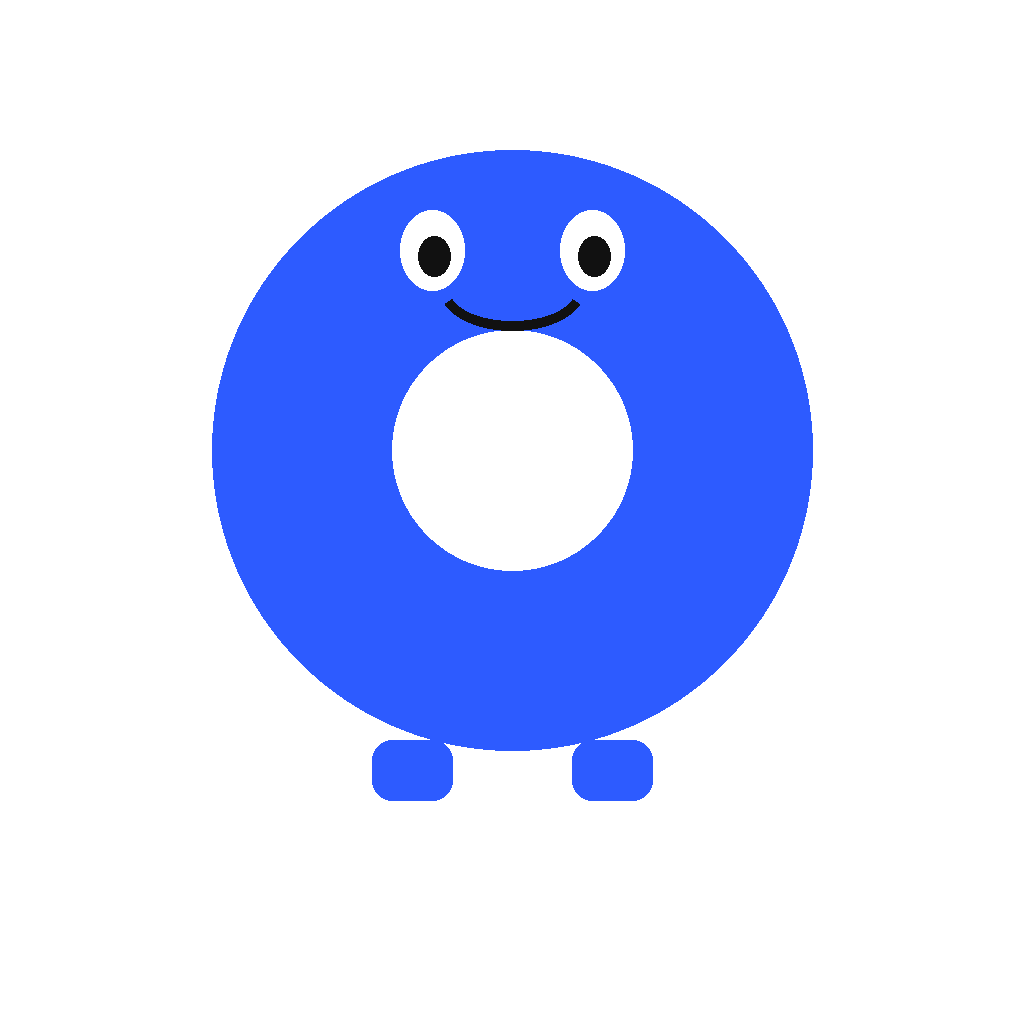
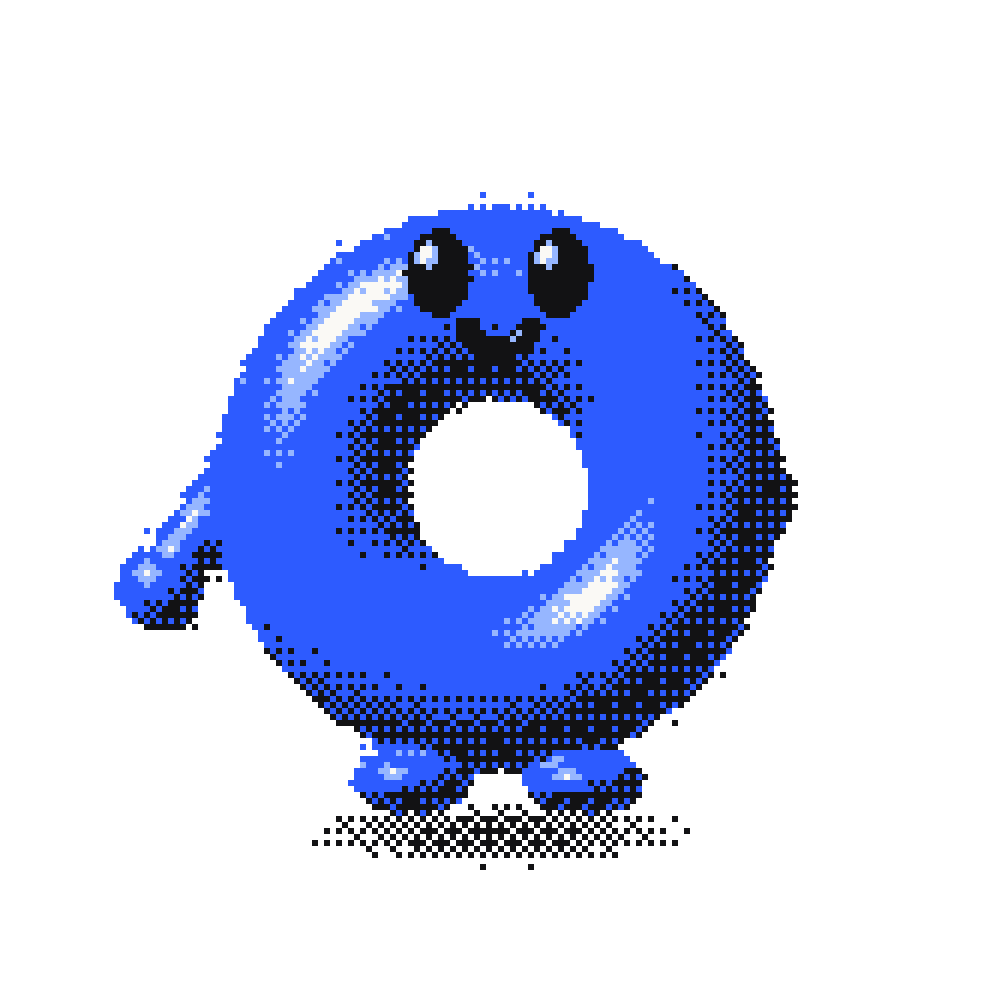
Promo v2: all mascot poses, face badge, layout fix on Meet Opus
Claude-Session: https://claude.ai/code/session_011kpWMGWPfw5rn88NcsAvb1

Changed region(s): [[0.0934, 0.1245, 0.8092, 0.8715]]

diff --git a/marketing/opus-promo/v2/index.html b/marketing/opus-promo/v2/index.html
@@ -48,11 +48,11 @@
       #s3 .fill { background: var(--ink); }
       #s3 { color: #fff; }
       #s3-h1 { top: 300px; font-size: 170px; }
-      #s3-acro { position: absolute; left: 72px; top: 520px; font-family: var(--mono); font-size: 34px; color: #a9a9b4; }
+      #s3-acro { position: absolute; left: 72px; top: 690px; font-family: var(--mono); font-size: 34px; color: #a9a9b4; }
       #s3-acro b { color: #fff; font-weight: 700; }
-      #s3-h2 { top: 620px; font-size: 76px; color: #fff; letter-spacing: -0.035em; line-height: 1.05; }
+      #s3-h2 { top: 780px; font-size: 76px; color: #fff; letter-spacing: -0.035em; line-height: 1.05; }
       #s3-h2 .hl { padding: 0 12px 6px; }
-      #s3-m { position: absolute; left: 230px; top: 930px; width: 1050px; height: 1050px; }
+      #s3-m { position: absolute; left: 230px; top: 1010px; width: 1050px; height: 1050px; }
 
       /* S4 */
       #s4 .fill { background: var(--sky); }
@@ -107,7 +107,7 @@
       .progress u { display: block; height: 100%; width: 100%; background: var(--orange); transform-origin: 0 50%; text-decoration: none; }
       .mc .coin { left: 860px; top: 650px; }
       #badge { position: absolute; left: 60px; top: 1600px; width: 190px; height: 190px; border-radius: 50%; background: #fff; border: 5px solid var(--ink); overflow: hidden; }
-      #badge img { position: absolute; left: -130px; top: -48px; width: 450px; height: 450px; }
+      #badge img { position: absolute; left: -6px; top: 4px; width: 192px; height: 192px; }
 
       /* S6 wall */
       #s6 .fill { background: var(--lilac); }
@@ -249,7 +249,7 @@
         <img class="coin px" src="assets/objects/ring.png" alt="" />
         <div class="result card" style="padding:24px"><div class="player"><img class="px" src="assets/objects/croissant.png" alt="" /><div class="cap">Fresh. Flaky. New.</div><div class="progress"><u id="c7-prog"></u></div></div></div>
       </section>
-      <div id="badge" data-layout-allow-overflow class="clip" data-start="15.5" data-duration="15.4" data-track-index="3"><img class="px" src="assets/mascot/wave.png" alt="" /></div>
+      <div id="badge" data-layout-allow-overflow class="clip" data-start="15.5" data-duration="15.4" data-track-index="3"><img class="px" src="assets/mascot/face.png" alt="" /></div>
 
       <!-- S6 wall 30.9-35: requests pour in, then fly into the mascot's O -->
       <section id="s6" class="scene clip" data-start="30.9" data-duration="4.1" data-track-index="1">
